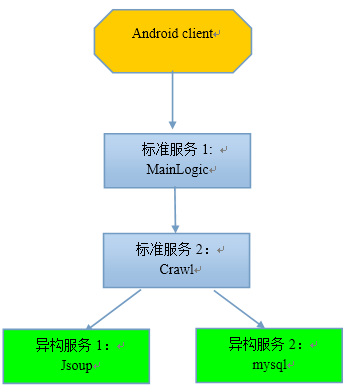
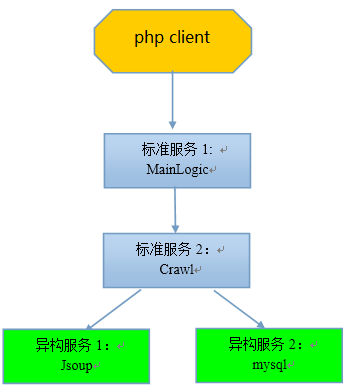
update php_dev_guide

Changed region(s): [[0.3736, 0.0617, 0.6322, 0.1234]]

diff --git a/document/msec/php_dev_guide.md b/document/msec/php_dev_guide.md
@@ -8,7 +8,7 @@
 
 如上图所示，业务流程如下：
 
-1.  android客户端访问MainLogic，请求拉取英语听力mp3列表。如果希望通过C/C++（如cgi）访问MainLogic，请参考[msec服务开发详解(cpp)](cpp_dev_guide.md)文档相关章节。
+1.  php client访问MainLogic，请求拉取英语听力mp3列表。如果希望通过C/C++（如cgi）访问MainLogic，请参考[msec服务开发详解(cpp)](cpp_dev_guide.md)文档相关章节。
 
 2.  MainLogic收到请求后，转而请求Crawl
 
@@ -22,7 +22,7 @@
 
 **这个例子比较典型，包括好几种远程调用场景：**
 
-1.  场景一：其他模块调用标准服务（android客户端调用MainLogic的GetTitles接口和GetUrlByTitle接口）
+1.  场景一：其他模块调用标准服务（php client用MainLogic的GetTitles接口和GetUrlByTitle接口）
 
 2.  场景二：标准服务A调用标准服务B（MainLogic调用Crawl的GetMP3List接口）
 
